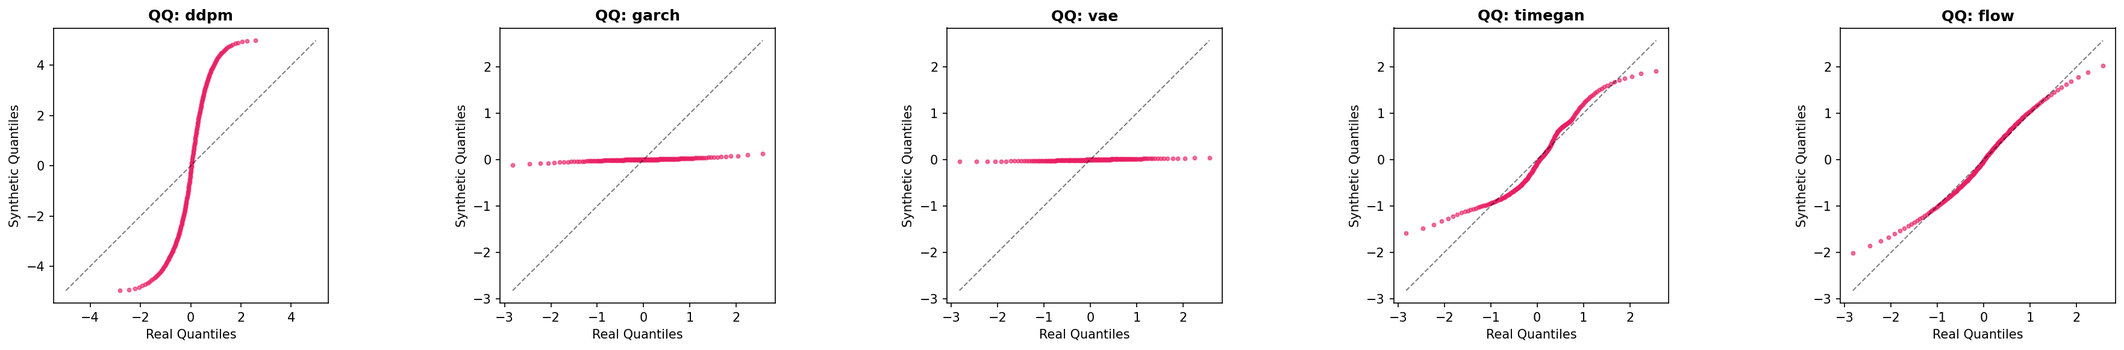
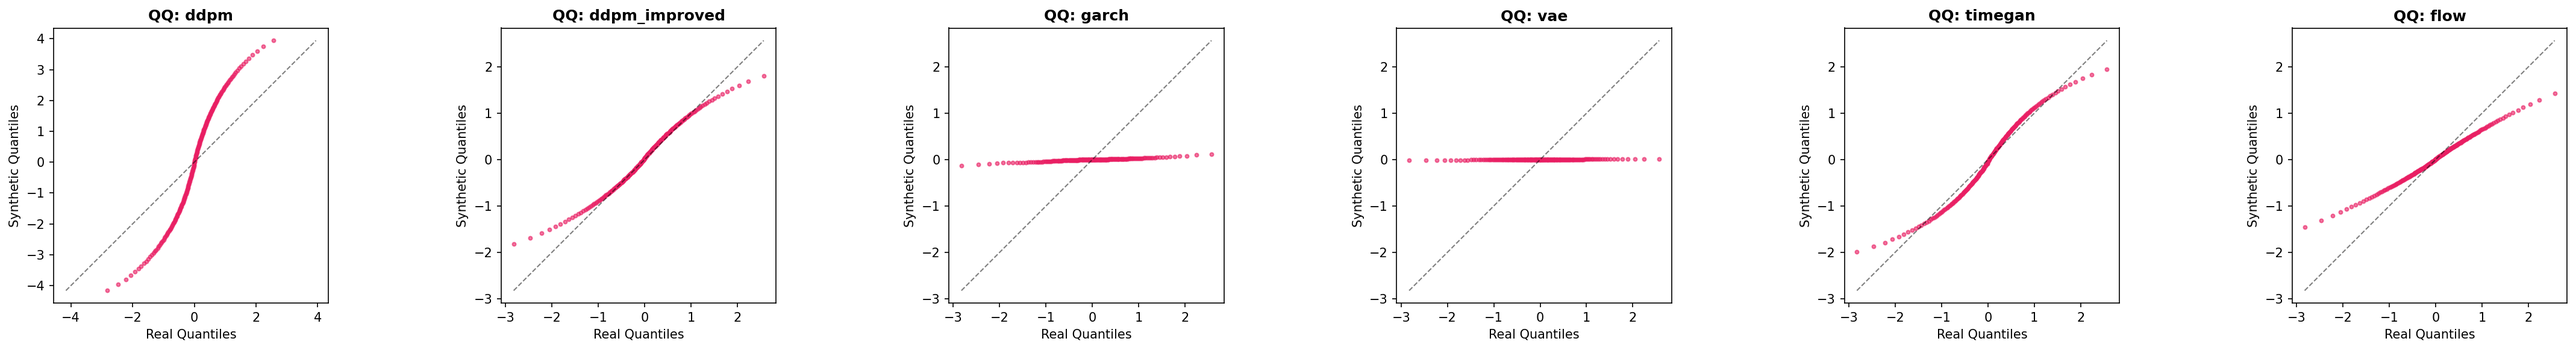
feat(demo): add ddpm_improved pipeline and demo integration

diff --git a/src/demo/index.html b/src/demo/index.html
@@ -306,6 +306,7 @@
             <label>Model:</label>
             <select id="model-select">
                 <option value="ddpm">DDPM</option>
+                <option value="ddpm_improved">DDPM (Improved)</option>
                 <option value="garch">GARCH</option>
                 <option value="vae">VAE</option>
                 <option value="timegan">TimeGAN</option>
@@ -372,6 +373,7 @@
             <label>Model:</label>
             <select id="val-model-select">
                 <option value="ddpm">DDPM</option>
+                <option value="ddpm_improved">DDPM (Improved)</option>
                 <option value="garch">GARCH</option>
                 <option value="vae">VAE</option>
                 <option value="timegan">TimeGAN</option>
@@ -387,6 +389,18 @@
 
 <script>
 const API = '';
+const MODEL_LABELS = {
+    ddpm: 'DDPM',
+    ddpm_improved: 'DDPM (Improved)',
+    garch: 'GARCH',
+    vae: 'VAE',
+    timegan: 'TimeGAN',
+    flow: 'NormFlow',
+};
+
+function modelLabel(modelKey) {
+    return MODEL_LABELS[modelKey] || modelKey.toUpperCase();
+}
 
 // ---- State ----
 let currentRegime = 'crisis';
@@ -589,7 +603,7 @@ function renderComparison(data) {
         }
         const sfClass = info.n_pass >= 4 ? 'sf-pass' : 'sf-fail';
         html += `<tr>
-            <td><strong>${m.toUpperCase()}</strong></td>
+            <td><strong>${modelLabel(m)}</strong></td>
             <td>${(info.mmd || 0).toFixed(4)}</td>
             <td>${(info.wasserstein_1d || 0).toFixed(4)}</td>
             <td>${(info.ks_stat || 0).toFixed(4)}</td>
@@ -630,7 +644,7 @@ document.getElementById('validate-btn').addEventListener('click', async () => {
 });
 
 function renderValidation(data) {
-    let html = `<h3 style="margin-bottom:16px">${data.model.toUpperCase()} — ${data.n_pass}/${data.n_total} tests passed</h3>`;
+    let html = `<h3 style="margin-bottom:16px">${modelLabel(data.model)} — ${data.n_pass}/${data.n_total} tests passed</h3>`;
     html += '<div class="sf-grid">';
 
     data.results.forEach(r => {
@@ -663,7 +677,7 @@ function renderValidation(data) {
             data.models.forEach(m => {
                 const opt = document.createElement('option');
                 opt.value = m;
-                opt.textContent = m.toUpperCase();
+                opt.textContent = modelLabel(m);
                 sel.appendChild(opt);
             });
         });

diff --git a/src/demo/app.py b/src/demo/app.py
@@ -110,6 +110,63 @@ def _build_ddpm_kwargs_from_checkpoint(ckpt_path: str, defaults: dict) -> dict:
     return kwargs
 
 
+def _build_improved_ddpm_kwargs_from_checkpoint(ckpt_path: str, defaults: dict) -> dict:
+    """
+    Build ImprovedDDPM init kwargs from checkpoint config + inferred net shape.
+    """
+    kwargs = dict(defaults)
+    import torch as _torch
+
+    ckpt = _torch.load(ckpt_path, map_location="cpu", weights_only=False)
+    cfg = ckpt.get("config", {})
+    net_state = ckpt.get("net_state", {})
+
+    for key in (
+        "n_features", "seq_len", "T", "cond_dim", "cfg_drop_prob",
+        "use_dit", "use_vpred", "use_self_cond", "use_sigmoid_schedule",
+        "use_cross_attn", "use_temporal_attn", "use_hetero_noise",
+        "use_aux_sf_loss", "use_acf_guidance", "use_wavelet",
+        "use_student_t_noise",
+    ):
+        if key in cfg:
+            kwargs[key] = cfg[key]
+
+    if kwargs.get("use_dit", False):
+        input_proj_w = net_state.get("input_proj.weight")
+        if input_proj_w is not None and getattr(input_proj_w, "ndim", 0) == 2:
+            kwargs["dit_d_model"] = int(input_proj_w.shape[0])
+
+        block_indices = set()
+        pattern = re.compile(r"blocks\.(\d+)\.")
+        for key in net_state.keys():
+            match = pattern.match(key)
+            if match:
+                block_indices.add(int(match.group(1)))
+        if block_indices:
+            kwargs["dit_n_layers"] = max(block_indices) + 1
+    else:
+        init_conv_w = net_state.get("init_conv.weight")
+        if init_conv_w is not None and init_conv_w.ndim == 3:
+            base_channels = int(init_conv_w.shape[0])
+            kwargs["base_channels"] = base_channels
+
+            down_channels = {}
+            pattern = re.compile(r"down_blocks\.(\d+)\.block1\.2\.weight")
+            for key, value in net_state.items():
+                match = pattern.match(key)
+                if match and hasattr(value, "shape") and len(value.shape) == 3:
+                    idx = int(match.group(1))
+                    down_channels[idx] = int(value.shape[0])
+
+            if down_channels:
+                kwargs["channel_mults"] = tuple(
+                    max(1, down_channels[idx] // max(base_channels, 1))
+                    for idx in sorted(down_channels.keys())
+                )
+
+    return kwargs
+
+
 def load_all_models(checkpoints_dir: str, data_dir: str):
     """Load all available model checkpoints."""
     import torch
@@ -155,11 +212,26 @@ def load_all_models(checkpoints_dir: str, data_dir: str):
         except Exception as e:
             print(f"  WARNING: Could not infer DDPM config from checkpoint: {e}")
 
+    improved_ckpt_path = os.path.join(checkpoints_dir, "ddpm_improved.pt")
+    improved_ddpm_kwargs = {"n_features": n_features, "seq_len": seq_len, "cond_dim": cond_dim, "device": device}
+    if os.path.exists(improved_ckpt_path):
+        try:
+            improved_ddpm_kwargs = _build_improved_ddpm_kwargs_from_checkpoint(
+                improved_ckpt_path, improved_ddpm_kwargs
+            )
+        except Exception as e:
+            print(f"  WARNING: Could not infer improved DDPM config from checkpoint: {e}")
+
     model_configs = {
         "ddpm": {
             "file": "ddpm.pt",
             "class": "DDPMModel",
             "kwargs": ddpm_kwargs,
+        },
+        "ddpm_improved": {
+            "file": "ddpm_improved.pt",
+            "class": "ImprovedDDPM",
+            "kwargs": improved_ddpm_kwargs,
         },
         "garch": {
             "file": "garch.npz",
@@ -183,9 +255,17 @@ def load_all_models(checkpoints_dir: str, data_dir: str):
         },
     }
 
-    from src.models import DDPMModel, GARCHModel, FinancialVAE, TimeGANModel, NormalizingFlowModel
+    from src.models import (
+        DDPMModel,
+        ImprovedDDPM,
+        GARCHModel,
+        FinancialVAE,
+        TimeGANModel,
+        NormalizingFlowModel,
+    )
     class_map = {
         "DDPMModel": DDPMModel,
+        "ImprovedDDPM": ImprovedDDPM,
         "GARCHModel": GARCHModel,
         "FinancialVAE": FinancialVAE,
         "TimeGANModel": TimeGANModel,
@@ -253,13 +333,14 @@ async def generate(req: GenerateRequest):
     n_paths = min(req.n_paths, 500)
 
     cond = None
-    if req.model == "ddpm" and model.cond_dim > 0:
+    is_diffusion_model = req.model in {"ddpm", "ddpm_improved"}
+    if is_diffusion_model and getattr(model, "cond_dim", 0) > 0:
         regime_vectors = get_regime_conditioning_vectors()
         if req.regime in regime_vectors:
             cond = regime_vectors[req.regime]
 
     try:
-        if req.model == "ddpm":
+        if is_diffusion_model:
             synthetic = model.generate(n_paths, cond=cond)
         else:
             synthetic = model.generate(n_paths)

diff --git a/src/run_pipeline.py b/src/run_pipeline.py
@@ -4,7 +4,7 @@ End-to-end pipeline for the Generative Market Simulation project.
 Usage:
     python -m src.run_pipeline                     # full pipeline
     python -m src.run_pipeline --skip-download      # skip data download
-    python -m src.run_pipeline --models ddpm garch   # train only selected models
+    python -m src.run_pipeline --models ddpm ddpm_improved garch   # train only selected models
     python -m src.run_pipeline --quick              # fast run for testing
 """
 
@@ -130,6 +130,24 @@ def step_train(data_dir: str, models_to_train: list[str],
             model.save(os.path.join(CHECKPOINTS_DIR, "ddpm.pt"))
             training_losses[model_name] = history["losses"]
 
+        elif model_name == "ddpm_improved":
+            from src.models.ddpm_improved import ImprovedDDPM
+            is_quick = epochs < 100
+            model = ImprovedDDPM(
+                n_features=n_features, seq_len=seq_len,
+                cond_dim=cond_dim, device=device,
+                T=200 if is_quick else 1000,
+                base_channels=32 if is_quick else 128,
+                channel_mults=(1, 2) if is_quick else (1, 2, 4),
+                # Project's strongest configuration from ablation phases.
+                use_vpred=True,
+                use_student_t_noise=True,
+                student_t_df=5.0,
+            )
+            history = model.train(windows, cond=cond, epochs=epochs, batch_size=batch_size, lr=lr)
+            model.save(os.path.join(CHECKPOINTS_DIR, "ddpm_improved.pt"))
+            training_losses[model_name] = history["losses"]
+
         elif model_name == "garch":
             from src.models.garch import GARCHModel
             model = GARCHModel(n_features=n_features, seq_len=seq_len, device=device)
@@ -242,7 +260,7 @@ def step_dashboard(results: dict, data_dir: str, training_losses: dict):
 def main():
     parser = argparse.ArgumentParser(description="Run full pipeline")
     parser.add_argument("--skip-download", action="store_true", help="Skip data download")
-    parser.add_argument("--models", nargs="+", default=["ddpm", "garch", "vae", "timegan", "flow"],
+    parser.add_argument("--models", nargs="+", default=["ddpm", "ddpm_improved", "garch", "vae", "timegan", "flow"],
                         help="Models to train")
     parser.add_argument("--epochs", type=int, default=None)
     parser.add_argument("--quick", action="store_true", help="Quick run with reduced epochs/samples")

diff --git a/src/models/__init__.py b/src/models/__init__.py
@@ -1,4 +1,5 @@
 from src.models.ddpm import DDPMModel
+from src.models.ddpm_improved import ImprovedDDPM
 from src.models.garch import GARCHModel
 from src.models.vae import FinancialVAE
 from src.models.gan import TimeGANModel
